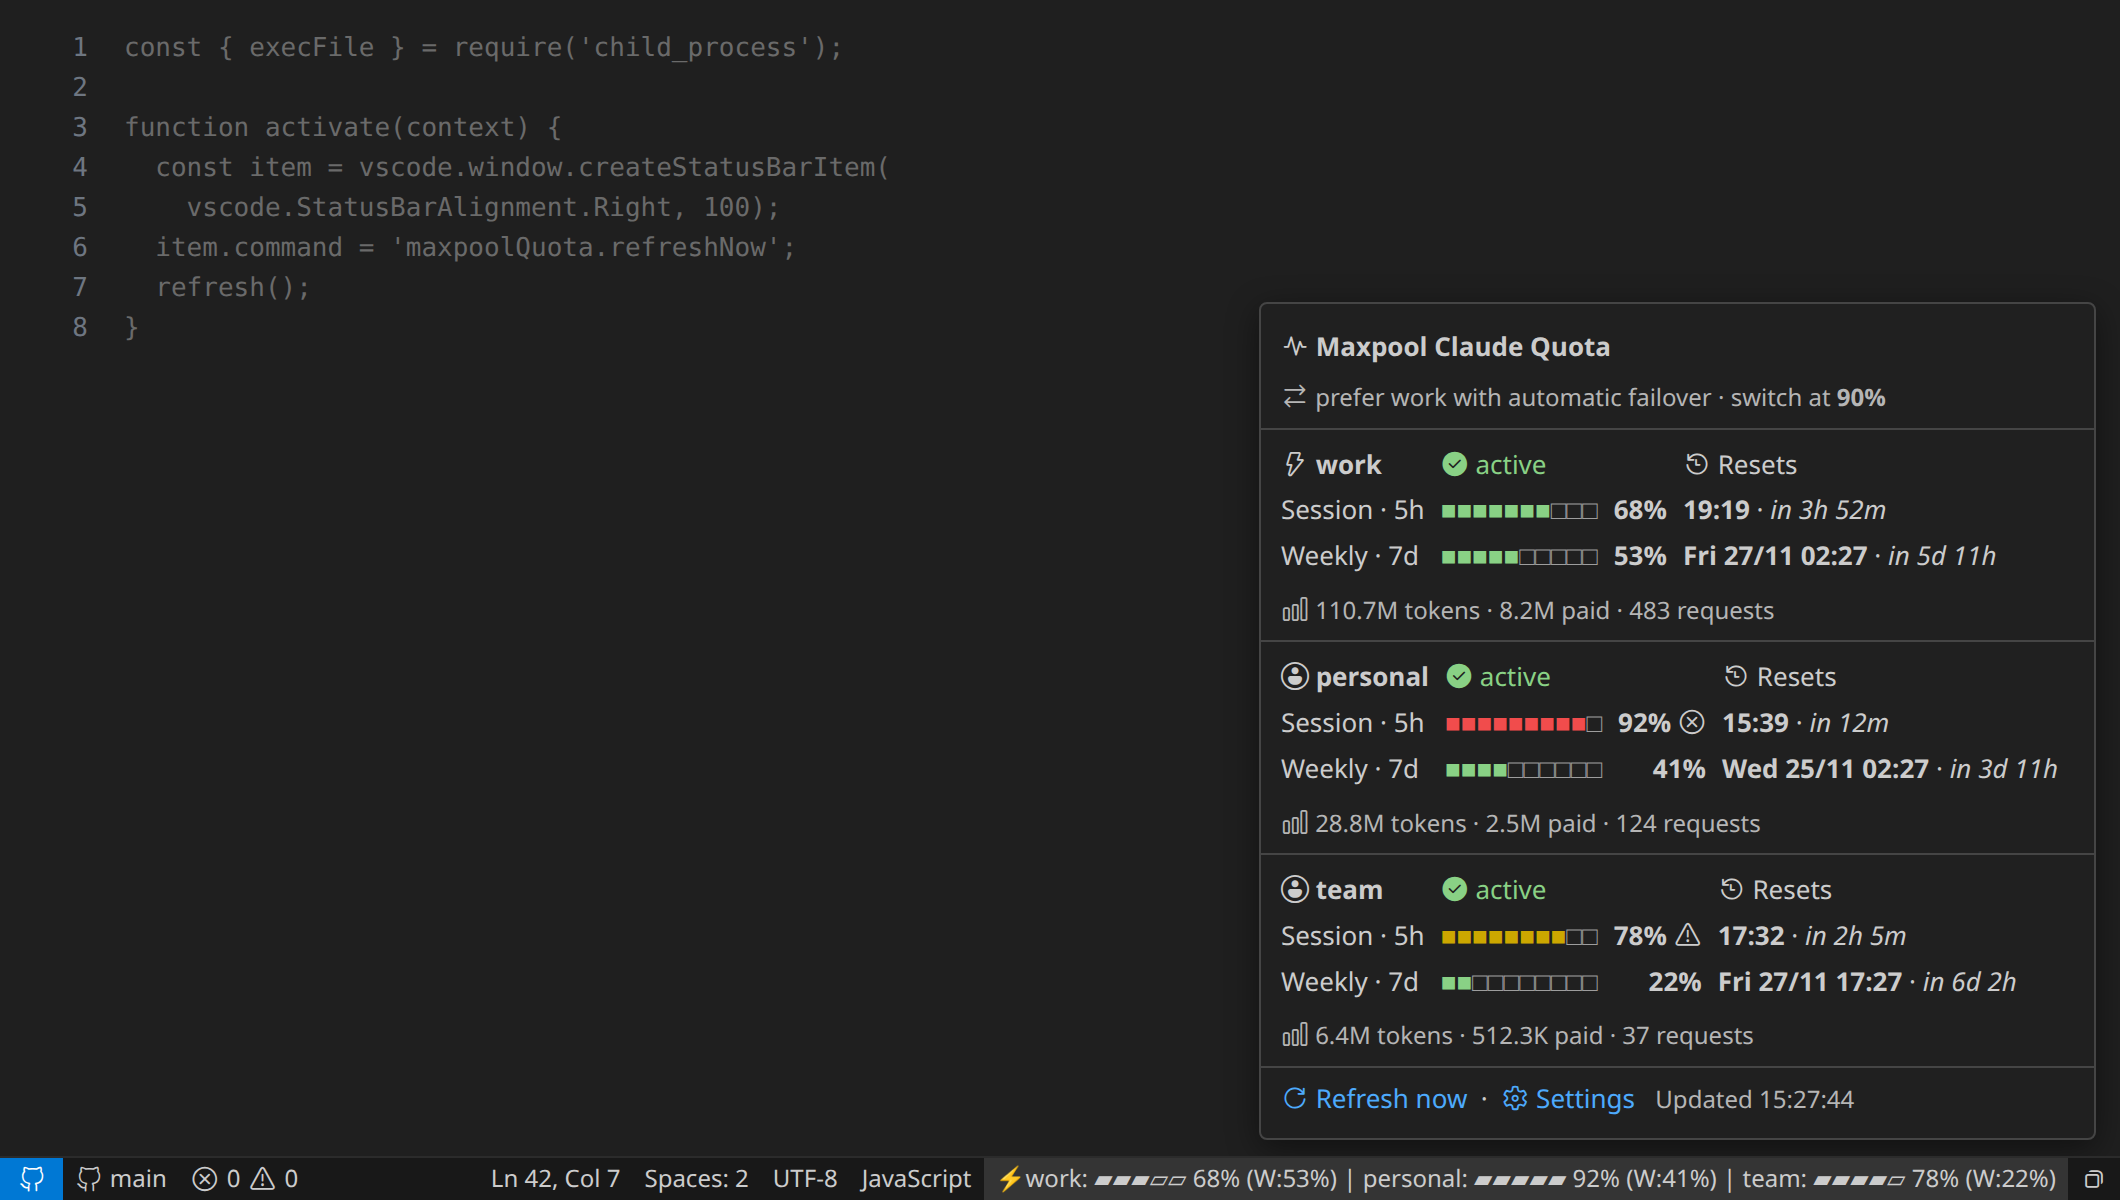
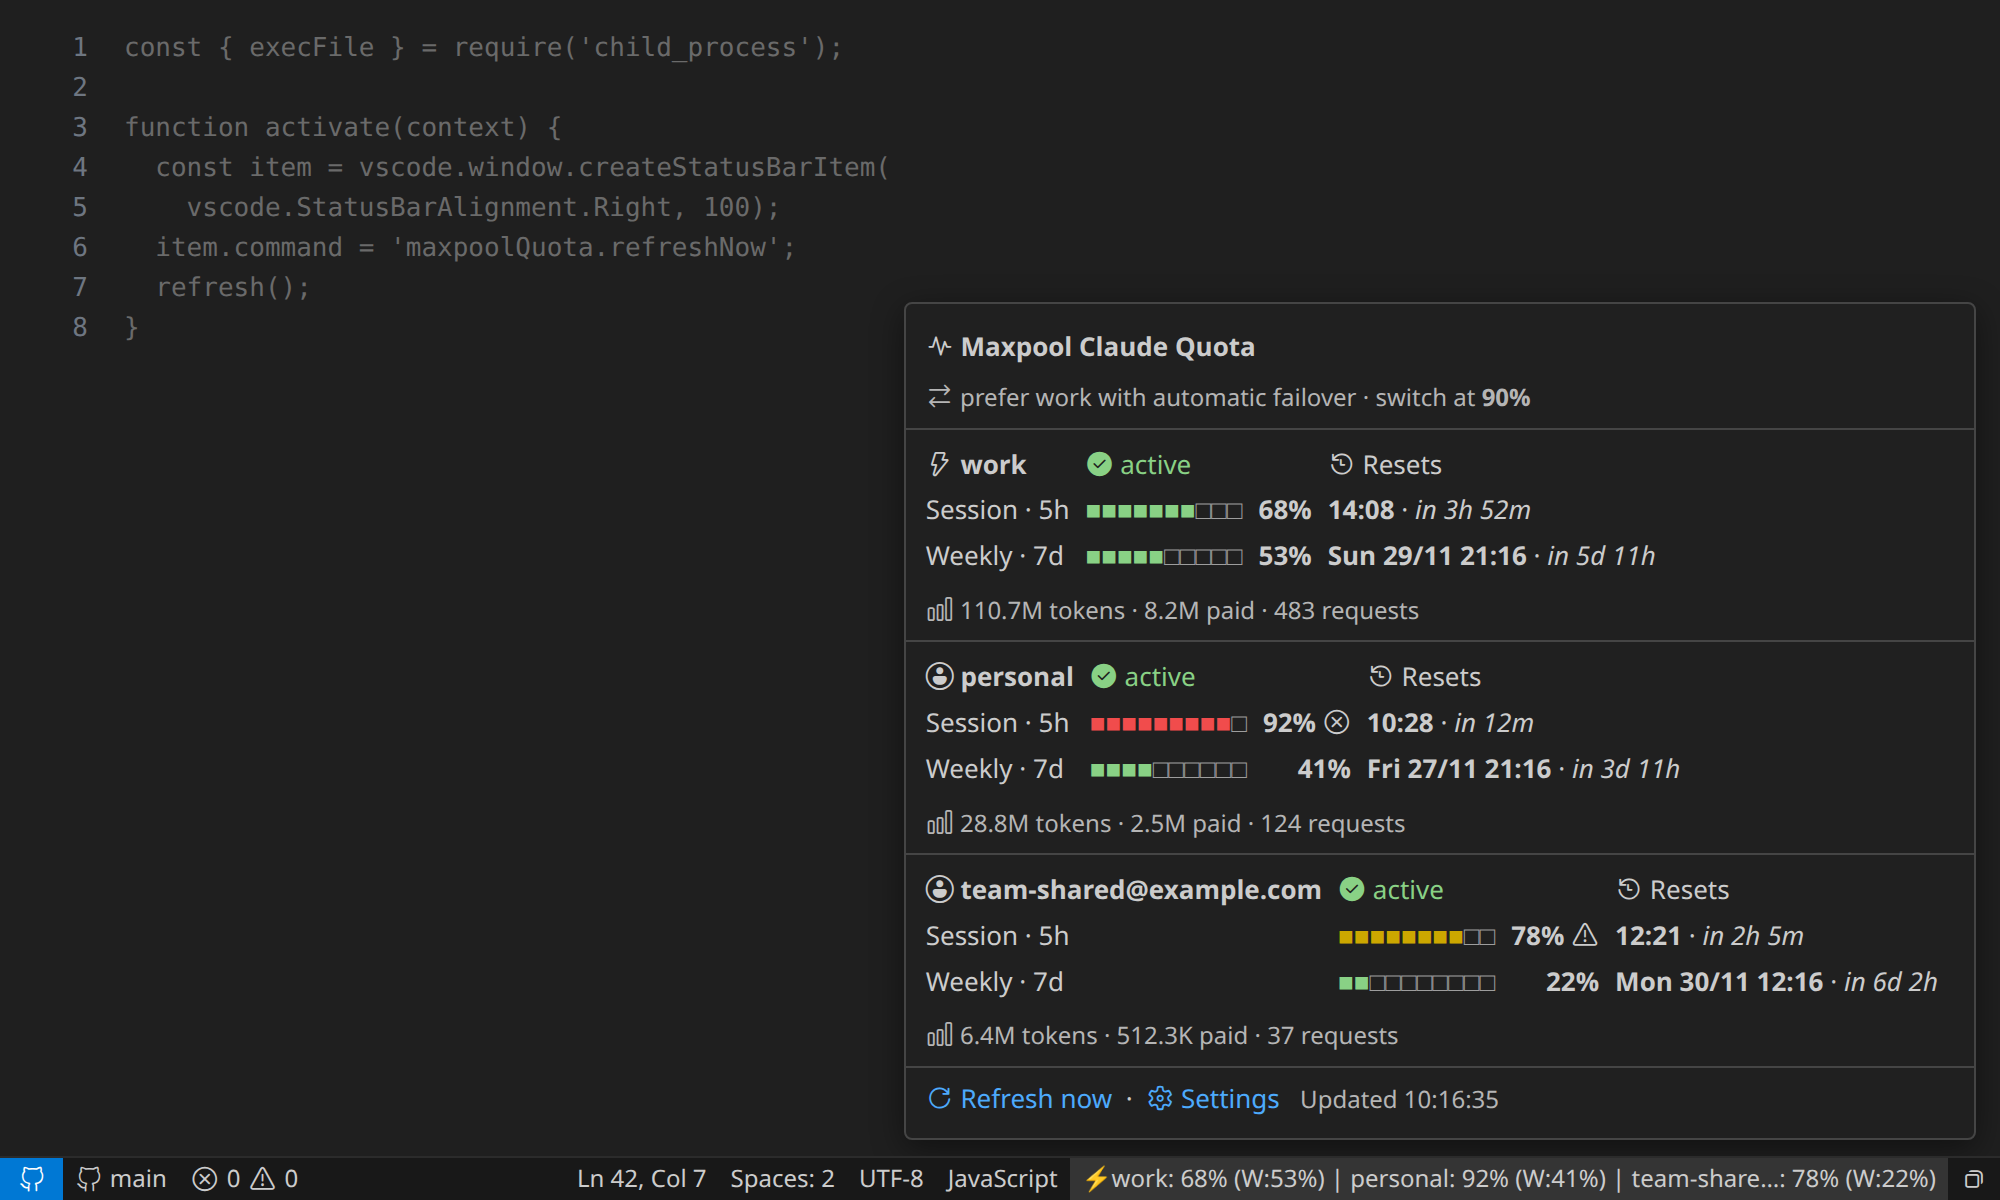
[ADD] v1.3.0 remove progress bar in status bar

diff --git a/extension.js b/extension.js
@@ -93,36 +93,65 @@ function getJson(options) {
   });
 }
 
-// Next reset time (epoch ms) per account, read from the maxpool server's JSON endpoint.
-// Resolves to an empty Map on any failure; the UI then shows "reset time unavailable".
-async function fetchResetTimes() {
-  const resets = new Map();
-  try {
-    const cfg = JSON.parse(fs.readFileSync(resolveMaxpoolConfigPath(), 'utf8'));
-    const proxy = cfg.proxy || {};
-    if (!proxy.port) return resets;
-    const data = await getJson({
-      host: proxy.host || '127.0.0.1',
-      port: proxy.port,
-      path: '/maxpool/status',
-      headers: { 'x-api-key': proxy.apiKey || '' }
-    });
-    for (const acct of data.accounts || []) {
-      const q = acct.quota || {};
-      resets.set(acct.name, {
-        session: Number.isFinite(q.unified5hReset) ? q.unified5hReset : null,
-        weekly: Number.isFinite(q.unified7dReset) ? q.unified7dReset : null
-      });
-    }
-  } catch (_) {}
-  return resets;
+function readProxyConfig() {
+  const cfg = JSON.parse(fs.readFileSync(resolveMaxpoolConfigPath(), 'utf8'));
+  const proxy = cfg.proxy || {};
+  if (!proxy.port) throw new Error('maxpool config has no proxy.port');
+  return { host: proxy.host || '127.0.0.1', port: proxy.port, apiKey: proxy.apiKey || '' };
 }
 
+const toPct = (v) => (Number.isFinite(v) ? Math.round(v * 100) : null);
+const toTs = (v) => (Number.isFinite(v) ? v : null);
+
+// Primary source: the proxy's /maxpool/status JSON, the same data `maxpool status` prints.
+// It lists every account whatever its name looks like, and carries the reset times.
+async function fetchStatusJson() {
+  const proxy = readProxyConfig();
+  const data = await getJson({
+    host: proxy.host,
+    port: proxy.port,
+    path: '/maxpool/status',
+    headers: { 'x-api-key': proxy.apiKey }
+  });
+  if (!Array.isArray(data.accounts)) throw new Error('unexpected /maxpool/status payload');
+
+  const accounts = data.accounts.map((acct) => {
+    const q = acct.quota || {}; // benched duplicates report quota: null
+    const u = acct.usage || {};
+    return {
+      name: String(acct.name),
+      active: acct.name === data.currentAccount,
+      status: acct.enabled === false ? 'disabled' : acct.status || 'unknown',
+      sessionUsed: toPct(q.unified5h),
+      weeklyUsed: toPct(q.unified7d),
+      sessionReset: toTs(q.unified5hReset),
+      weeklyReset: toTs(q.unified7dReset),
+      usage: Number.isFinite(u.totalRequests)
+        ? {
+            tokens: (u.totalInputTokens || 0) + (u.totalOutputTokens || 0),
+            paid: Number.isFinite(u.totalPaidTokens) ? u.totalPaidTokens : null,
+            requests: u.totalRequests
+          }
+        : null
+    };
+  });
+
+  const routing =
+    data.routing && data.routing.mode === 'preferred'
+      ? `prefer ${data.routing.preferredAccount} with automatic failover`
+      : 'automatic load balancing';
+  const switchAt = Number.isFinite(data.switchThreshold)
+    ? `${(data.switchThreshold * 100).toFixed(0)}%`
+    : '';
+  return { accounts, routing, switchAt };
+}
+
+// Fallback source: the text output of `maxpool status` (it has no reset times).
 function parseMaxpoolStatus(output) {
   const accounts = [];
   let current = null;
   let routing = '';
-  let switchAt = '90%';
+  let switchAt = '';
 
   for (const line of output.split(/\r?\n/)) {
     const routeMatch = line.match(/^Routing:\s*(.+)/);
@@ -131,16 +160,19 @@ function parseMaxpoolStatus(output) {
     const switchMatch = line.match(/^Switch at:\s*([0-9.]+%)/);
     if (switchMatch) switchAt = switchMatch[1];
 
-    const accMatch = line.match(/^\s+([a-zA-Z0-9_-]+)\s+\(oauth\)(\s*\*)?/);
+    // Account header, e.g. "  me@example.com (oauth) *". Names may contain any character.
+    const accMatch = line.match(/^ {2}(\S.*?)\s+\(([a-z-]+)\)(\s*\*)?\s*$/);
     if (accMatch) {
       if (current) accounts.push(current);
       current = {
         name: accMatch[1],
-        active: Boolean(accMatch[2]),
-        status: 'active',
-        sessionUsed: 0,
-        weeklyUsed: 0,
-        totalInfo: ''
+        active: Boolean(accMatch[3]),
+        status: 'unknown',
+        sessionUsed: null,
+        weeklyUsed: null,
+        sessionReset: null,
+        weeklyReset: null,
+        usage: null
       };
       continue;
     }
@@ -150,19 +182,44 @@ function parseMaxpoolStatus(output) {
     const statusMatch = line.match(/^\s+Status:\s*(.+)/);
     if (statusMatch) current.status = statusMatch[1].trim();
 
-    if (line.includes('Session:')) {
-      const sMatch = line.match(/Session:\s*([0-9.]+)%/);
-      const wMatch = line.match(/Weekly:\s*([0-9.]+)%/);
-      if (sMatch) current.sessionUsed = Math.round(parseFloat(sMatch[1]));
-      if (wMatch) current.weeklyUsed = Math.round(parseFloat(wMatch[1]));
-    }
+    const sMatch = line.match(/Session:\s*([0-9.]+)%/);
+    const wMatch = line.match(/Weekly:\s*([0-9.]+)%/);
+    if (sMatch) current.sessionUsed = Math.round(parseFloat(sMatch[1]));
+    if (wMatch) current.weeklyUsed = Math.round(parseFloat(wMatch[1]));
 
-    const totalMatch = line.match(/^\s+Total:\s*(.+)/);
-    if (totalMatch) current.totalInfo = totalMatch[1].trim();
+    const totalMatch = line.match(/^\s+Total:\s*(\d+)\s+tokens(?:\s+\(paid\s+(\d+)\))?,\s*(\d+)\s+requests?/);
+    if (totalMatch) {
+      current.usage = {
+        tokens: +totalMatch[1],
+        paid: totalMatch[2] != null ? +totalMatch[2] : null,
+        requests: +totalMatch[3]
+      };
+    }
   }
 
   if (current) accounts.push(current);
   return { accounts, routing, switchAt };
+}
+
+function runMaxpoolStatus() {
+  return new Promise((resolve, reject) => {
+    const { bin, binDir } = resolveMaxpoolBinary();
+    const env = { ...process.env };
+    if (binDir) env.PATH = `${binDir}${path.delimiter}${env.PATH || ''}`;
+    execFile(bin, ['status'], { env, timeout: 8000, shell: isWin }, (err, stdout) => {
+      if (err || !stdout) reject(err || new Error('empty output'));
+      else resolve(parseMaxpoolStatus(stdout));
+    });
+  });
+}
+
+// Rejects only when both sources fail, which means the proxy is offline.
+async function fetchStatus() {
+  try {
+    return await fetchStatusJson();
+  } catch (_) {
+    return runMaxpoolStatus();
+  }
 }
 
 // ── Formatting ──────────────────────────────────────────────
@@ -194,6 +251,11 @@ function formatReset(ts) {
   return `**${clock}** · _in ${rel}_`;
 }
 
+const fmtPct = (pct) => (pct == null ? '—' : `${pct}%`);
+
+// Highest known usage of an account (session or weekly); 0 when neither is reported.
+const peakUsage = (acc) => Math.max(0, ...[acc.sessionUsed, acc.weeklyUsed].filter((n) => n != null));
+
 // Severity is carried by theme color plus icon, never by color alone.
 function usageLevel(pct) {
   if (pct >= 90) return { color: 'var(--vscode-charts-red)', icon: ' $(error)' };
@@ -201,16 +263,12 @@ function usageLevel(pct) {
   return { color: 'var(--vscode-charts-green)', icon: '' };
 }
 
-function meter(pct, segments) {
-  const filled = Math.min(segments, Math.max(0, Math.round((pct / 100) * segments)));
-  return { filled, empty: segments - filled };
-}
-
 // 10-segment bullet bar: the used part takes the severity color, the rest is muted
 function tooltipBar(pct) {
-  const { filled, empty } = meter(pct, 10);
+  if (pct == null) return muted('□'.repeat(10));
+  const filled = Math.min(10, Math.max(0, Math.round(pct / 10)));
   const used = filled ? `<span style="color:${usageLevel(pct).color};">${'■'.repeat(filled)}</span>` : '';
-  return used + (empty ? muted('□'.repeat(empty)) : '');
+  return used + (filled < 10 ? muted('□'.repeat(10 - filled)) : '');
 }
 
 function compactNumber(n) {
@@ -220,24 +278,30 @@ function compactNumber(n) {
   return String(n);
 }
 
-// "93934957 tokens (paid 6662441), 397 requests" → "93.9M tokens · 6.7M paid · 397 requests"
-function formatTotal(info) {
-  const m = info.match(/^(\d+)\s+tokens(?:\s+\(paid\s+(\d+)\))?,\s*(\d+)\s+requests?/);
-  if (!m) return info;
-  const parts = [`${compactNumber(+m[1])} tokens`];
-  if (m[2]) parts.push(`${compactNumber(+m[2])} paid`);
-  parts.push(`${m[3]} requests`);
+// { tokens: 93934957, paid: 6662441, requests: 397 } → "93.9M tokens · 6.7M paid · 397 requests"
+function formatUsage(usage) {
+  const parts = [`${compactNumber(usage.tokens)} tokens`];
+  if (usage.paid != null) parts.push(`${compactNumber(usage.paid)} paid`);
+  parts.push(`${usage.requests} requests`);
   return parts.join(' · ');
 }
 
-// Escape text coming from the CLI before it goes into Markdown, HTML or a table cell
+// Escape text coming from Maxpool before it goes into Markdown, HTML or a table cell.
+// "@" becomes an entity so e-mail style account names don't turn into mailto links.
 function escapeMd(s) {
   return String(s)
     .replace(/&/g, '&amp;')
     .replace(/</g, '&lt;')
     .replace(/>/g, '&gt;')
+    .replace(/@/g, '&#64;')
     .replace(/\|/g, '\\|')
     .replace(/([*_`$\[\]])/g, '\\$1');
+}
+
+// Status bar names are cut to `maxLength` characters plus "…" (0 = never cut).
+function truncateName(name, maxLength) {
+  const chars = Array.from(name);
+  return maxLength > 0 && chars.length > maxLength ? `${chars.slice(0, maxLength).join('')}…` : name;
 }
 
 function statusBadge(status) {
@@ -249,7 +313,8 @@ function statusBadge(status) {
 
 // ── Status bar ──────────────────────────────────────────────
 
-function statusBarView(state) {
+// Every account is listed: "⚡name: 24% (W:4%)". Meters live in the hover card only.
+function statusBarView(state, nameLength = 10) {
   if (state.kind === 'loading') return { text: '$(sync~spin) Claude...', level: 'normal' };
   if (state.kind === 'offline') return { text: '⚠ Claude: Offline', level: 'error' };
   if (state.kind === 'empty') return { text: '⚠ Claude: No Acc', level: 'warning' };
@@ -257,8 +322,8 @@ function statusBarView(state) {
   const { accounts } = state;
   // Color follows the account in use, or turns red when every account is nearly exhausted
   const activeAcc = accounts.find((a) => a.active) || accounts[0];
-  const activeMax = Math.max(activeAcc.sessionUsed, activeAcc.weeklyUsed);
-  const minAll = Math.min(...accounts.map((a) => Math.max(a.sessionUsed, a.weeklyUsed)));
+  const activeMax = peakUsage(activeAcc);
+  const minAll = Math.min(...accounts.map(peakUsage));
 
   let level = 'normal';
   if (minAll >= 90 || activeMax >= 90) level = 'error';
@@ -266,9 +331,8 @@ function statusBarView(state) {
 
   const text = accounts
     .map((acc) => {
-      const { filled, empty } = meter(Math.max(acc.sessionUsed, acc.weeklyUsed), 5);
-      const bar = '▰'.repeat(filled) + '▱'.repeat(empty);
-      return `${acc.active ? '⚡' : ''}${acc.name}: ${bar} ${acc.sessionUsed}% (W:${acc.weeklyUsed}%)`;
+      const name = truncateName(acc.name, nameLength);
+      return `${acc.active ? '⚡' : ''}${name}: ${fmtPct(acc.sessionUsed)} (W:${fmtPct(acc.weeklyUsed)})`;
     })
     .join('  |  ');
 
@@ -330,18 +394,19 @@ function buildTooltip(state, refreshing) {
   }
 
   for (const acc of state.accounts) {
-    const r = state.resets.get(acc.name) || {};
     const name = `${acc.active ? '$(zap)' : '$(account)'} ${escapeMd(acc.name)}`;
-    const row = (label, pct, resetTs) =>
-      `| ${label} | ${tooltipBar(pct)} | **${pct}%**${usageLevel(pct).icon} | ${formatReset(resetTs)} |\n`;
+    const row = (label, pct, resetTs) => {
+      const icon = pct == null ? '' : usageLevel(pct).icon;
+      return `| ${label} | ${tooltipBar(pct)} | **${fmtPct(pct)}**${icon} | ${formatReset(resetTs)} |\n`;
+    };
 
     md.appendMarkdown('---\n\n');
     md.appendMarkdown(`| **${name}** | ${statusBadge(acc.status)} | | $(history) Resets |\n`);
     md.appendMarkdown('| :--- | :--- | ---: | :--- |\n');
-    md.appendMarkdown(row('Session · 5h', acc.sessionUsed, r.session));
-    md.appendMarkdown(row('Weekly · 7d', acc.weeklyUsed, r.weekly));
-    if (acc.totalInfo) {
-      md.appendMarkdown(`\n<small>$(graph) ${escapeMd(formatTotal(acc.totalInfo))}</small>\n\n`);
+    md.appendMarkdown(row('Session · 5h', acc.sessionUsed, acc.sessionReset));
+    md.appendMarkdown(row('Weekly · 7d', acc.weeklyUsed, acc.weeklyReset));
+    if (acc.usage) {
+      md.appendMarkdown(`\n<small>$(graph) ${escapeMd(formatUsage(acc.usage))}</small>\n\n`);
     }
   }
 
@@ -361,7 +426,9 @@ function activate(context) {
   let timer = null;
 
   const render = (manual = false) => {
-    const view = statusBarView(state);
+    const config = vscode.workspace.getConfiguration('maxpoolQuota');
+    const nameLength = config.get('statusBarNameLength');
+    const view = statusBarView(state, Number.isFinite(nameLength) ? Math.max(0, nameLength) : 10);
     item.text = manual && inFlight ? '$(sync~spin) Updating...' : view.text;
     item.tooltip = buildTooltip(state, Boolean(inFlight));
     applyBackgroundColor(item, view.level);
@@ -370,29 +437,18 @@ function activate(context) {
   // Overlapping calls (timer + manual refresh) share one run
   const refresh = (manual = false) => {
     if (inFlight) return inFlight;
-    inFlight = new Promise((resolve) => {
-      const { bin, binDir } = resolveMaxpoolBinary();
-      const env = { ...process.env };
-      if (binDir) env.PATH = `${binDir}${path.delimiter}${env.PATH || ''}`;
-
-      const resetsPromise = fetchResetTimes();
-      execFile(bin, ['status'], { env, timeout: 8000, shell: isWin }, async (err, stdout) => {
-        const resets = await resetsPromise;
+    inFlight = fetchStatus()
+      .then((data) => {
         const now = new Date();
-        if (err || !stdout) {
-          state = { kind: 'offline', updatedAt: now };
-        } else {
-          const parsed = parseMaxpoolStatus(stdout);
-          state = parsed.accounts.length
-            ? { kind: 'ok', ...parsed, resets, updatedAt: now }
-            : { kind: 'empty', updatedAt: now };
-        }
-        resolve();
+        state = data.accounts.length ? { kind: 'ok', ...data, updatedAt: now } : { kind: 'empty', updatedAt: now };
+      })
+      .catch(() => {
+        state = { kind: 'offline', updatedAt: new Date() };
+      })
+      .finally(() => {
+        inFlight = null;
+        render();
       });
-    }).finally(() => {
-      inFlight = null;
-      render();
-    });
     if (manual) render(true); // spinner in the status bar and the tooltip
     return inFlight;
   };

diff --git a/README.md b/README.md
@@ -8,7 +8,7 @@ The extension reads usage from [Maxpool](https://github.com/2solarmax/maxpool), 
 
 ## Features
 
-- **All accounts at a glance.** The status bar shows a meter, the session percentage and the weekly percentage for every account. The account Maxpool currently routes to is marked with `⚡`.
+- **All accounts at a glance.** The status bar lists every account in Maxpool with its session and weekly percentage (`⚡work: 68% (W:53%)`). The account Maxpool currently routes to is marked with `⚡`. Names longer than 10 characters are shortened (`team-share…`); the hover card always shows the full name.
 - **Reset times.** For each account, see when the 5-hour session and the weekly quota reset next. Times use a 24-hour clock in your machine's time zone, with a countdown (`19:10 · in 3h 52m`, `Fri 27/11 03:00 · in 5d 11h`).
 - **Hover card you can use.** Hover the status bar item for usage meters, reset times and token totals per account. You can move the mouse into the card, which has **Refresh now** and **Settings** buttons.
 - **Early warning.** The status bar item turns yellow at 75% and red at 90%. Inside the card, every meter is colored and gets a warning or error icon, so you never have to rely on color alone.
@@ -72,6 +72,7 @@ Then run **Developer: Reload Window**.
 | :--- | :--- | :--- |
 | `maxpoolQuota.binaryPath` | `""` | Full path to the `maxpool` executable. Leave empty to detect it automatically. |
 | `maxpoolQuota.refreshIntervalSeconds` | `15` | How often usage refreshes, in seconds (minimum `5`). |
+| `maxpoolQuota.statusBarNameLength` | `10` | Maximum characters shown for each account name in the status bar. Longer names end with `…`. Set to `0` to show full names. |
 
 ## Commands
 
@@ -81,17 +82,16 @@ Then run **Developer: Reload Window**.
 
 ## How it works
 
-On every refresh the extension does two things at the same time:
+On every refresh the extension reads the proxy's `/maxpool/status` endpoint, the same data `maxpool status` prints. It gives every account, whatever its name looks like, with its status, session and weekly usage, reset times and token totals. The proxy address and API key come from Maxpool's config file, found the same way Maxpool finds it: `$MAXPOOL_CONFIG`, then `$XDG_CONFIG_HOME/maxpool.json`, then `~/.config/maxpool.json`.
 
-1. It runs `maxpool status` to read the routing mode and each account's status, session usage, weekly usage and token totals.
-2. It calls the proxy's `/maxpool/status` endpoint to read reset times, which the CLI doesn't print. The proxy address and API key come from Maxpool's config file, found the same way Maxpool finds it: `$MAXPOOL_CONFIG`, then `$XDG_CONFIG_HOME/maxpool.json`, then `~/.config/maxpool.json`.
+If that fails, for example because the config file is somewhere else, the extension runs `maxpool status` and reads its text output instead. Usage still shows, but reset times don't, because the command doesn't print them.
 
 The extension only talks to the local `maxpool` command and to the proxy address in Maxpool's config file. It sends no data anywhere else.
 
 ## Troubleshooting
 
 - **The status bar shows "Claude: Offline".** Start the proxy with `maxpool server`, then click the status bar item or **Refresh now**. If `maxpool` isn't on a standard path, set `maxpoolQuota.binaryPath`.
-- **Reset times show "—".** The extension couldn't reach `/maxpool/status`. Check that the proxy is running and that `proxy.port` and `proxy.apiKey` in Maxpool's config are correct. Usage percentages still work without it.
+- **Reset times show "—".** The extension couldn't reach `/maxpool/status` and fell back to `maxpool status`. Check that the proxy is running and that `proxy.port` and `proxy.apiKey` in Maxpool's config are correct. A session reset also shows "—" while an account hasn't started a session window yet.
 - **The status bar shows "Claude: No Acc".** Maxpool has no Claude accounts yet. Add one with `maxpool login`.
 
 ## License
